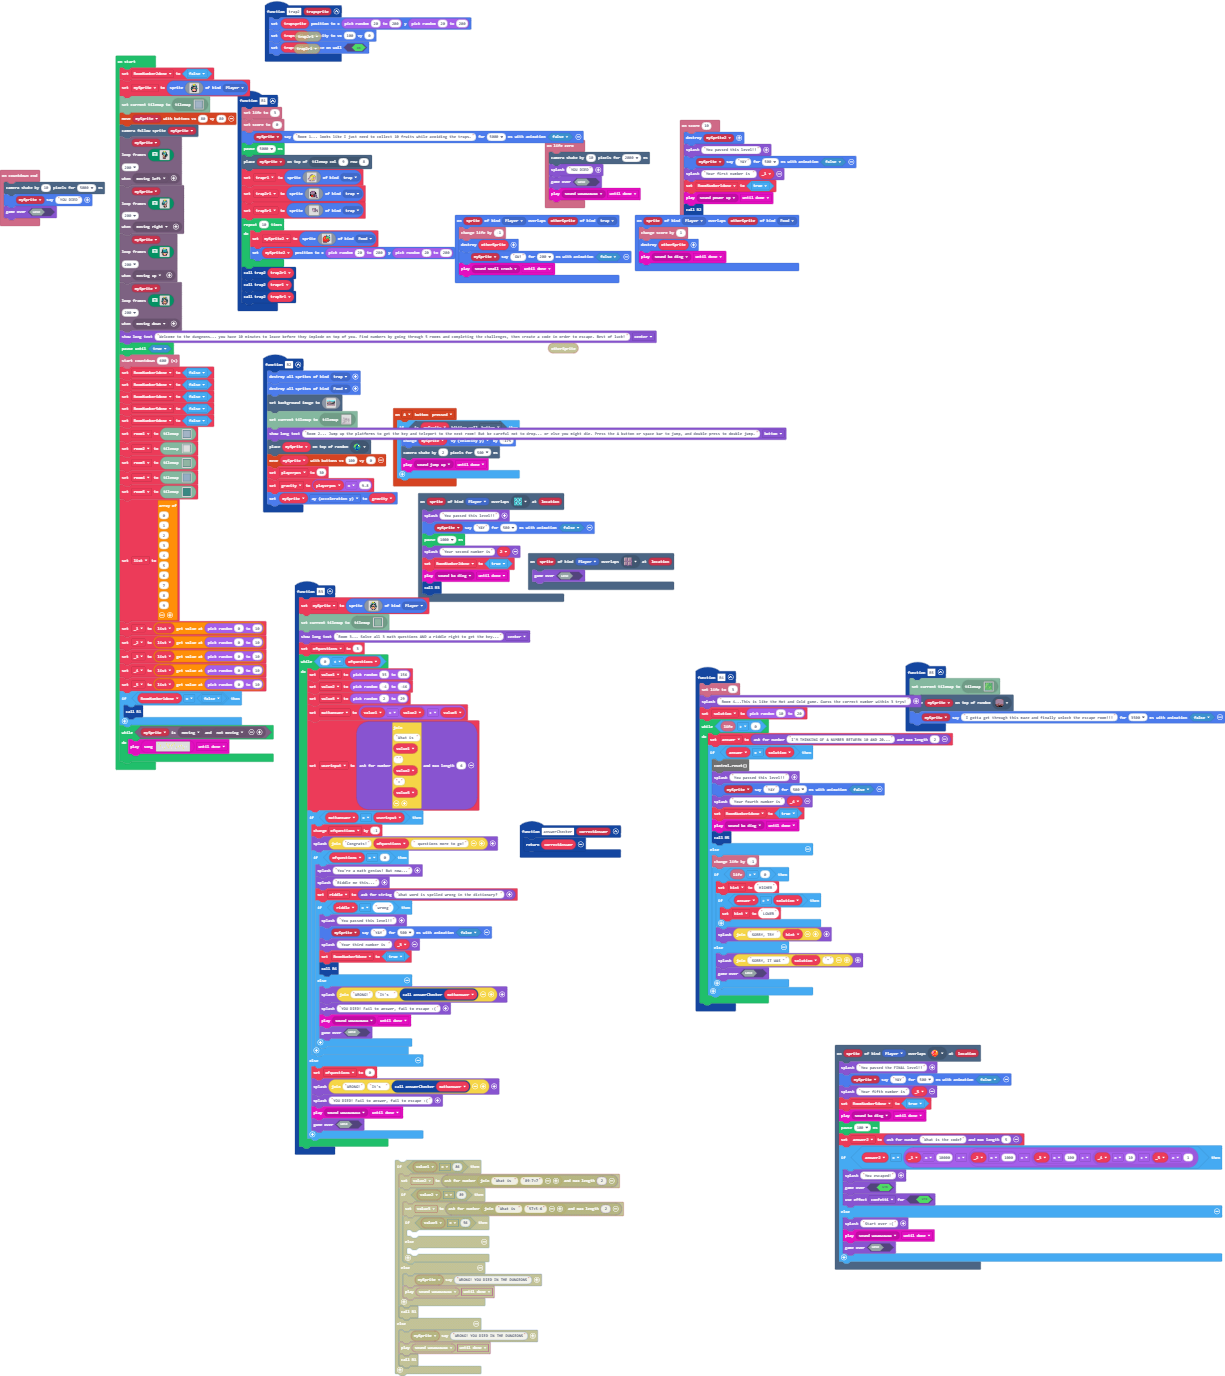
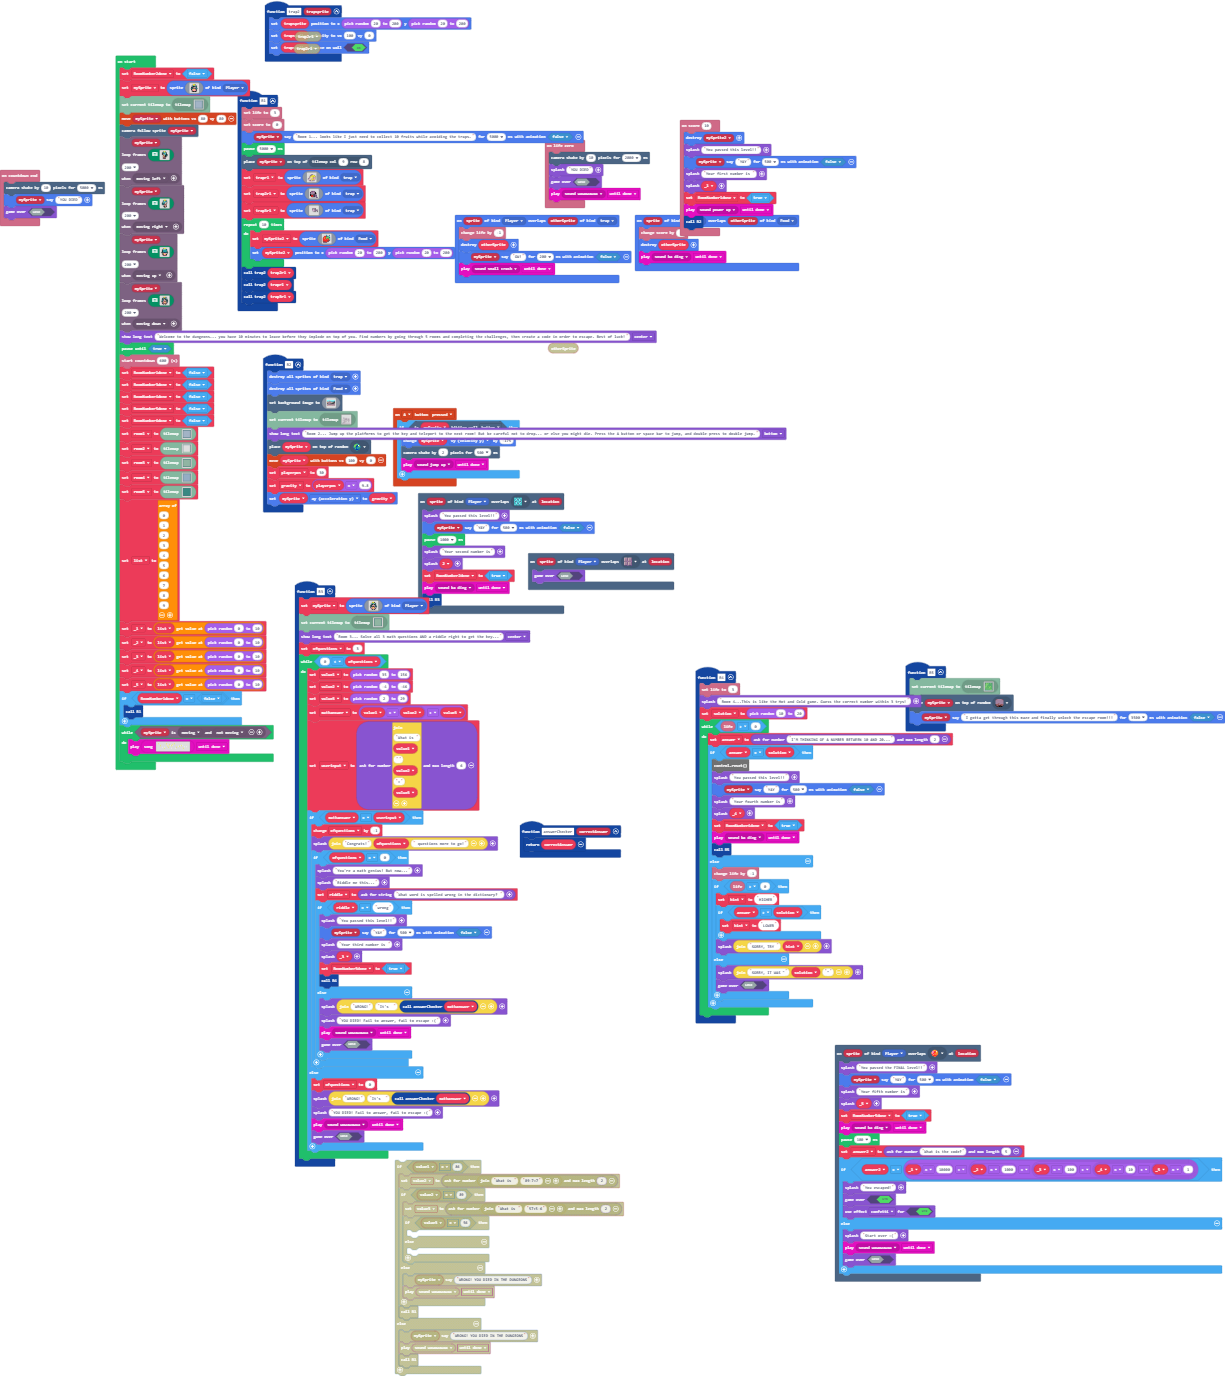
better number splash

diff --git a/main.ts b/main.ts
@@ -130,7 +130,8 @@ info.onScore(10, function () {
     sprites.destroy(mySprite2)
     game.splash("You passed this level!!")
     mySprite.sayText("YAY", 500, false)
-    game.splash("Your first number is ", _1)
+    game.splash("Your first number is ")
+    game.splash(_1)
     RoomNumber1done = true
     music.play(music.melodyPlayable(music.powerUp), music.PlaybackMode.UntilDone)
     R2()
@@ -312,7 +313,8 @@ function R3 () {
                 if (riddle == "wrong") {
                     game.splash("You passed this level!!")
                     mySprite.sayText("YAY", 500, false)
-                    game.splash("Your third number is ", _3)
+                    game.splash("Your third number is ")
+                    game.splash(_3)
                     RoomNumber3done = true
                     R4()
                 } else {
@@ -350,7 +352,8 @@ function R4 () {
             control.reset()
 game.splash("You passed this level!!")
             mySprite.sayText("YAY", 500, false)
-            game.splash("Your fourth number is", _4)
+            game.splash("Your fourth number is")
+            game.splash(_4)
             RoomNumber4done = true
             music.play(music.melodyPlayable(music.baDing), music.PlaybackMode.UntilDone)
             R5()
@@ -377,7 +380,8 @@ sprites.onOverlap(SpriteKind.Player, SpriteKind.Food, function (sprite, otherSpr
 scene.onOverlapTile(SpriteKind.Player, sprites.dungeon.collectibleRedCrystal, function (sprite, location) {
     game.splash("You passed the FINAL level!!")
     mySprite.sayText("YAY", 500, false)
-    game.splash("Your fifth number is", _5)
+    game.splash("Your fifth number is")
+    game.splash(_5)
     RoomNumber5done = true
     music.play(music.melodyPlayable(music.baDing), music.PlaybackMode.UntilDone)
     pause(100)
@@ -402,7 +406,8 @@ scene.onOverlapTile(SpriteKind.Player, sprites.dungeon.collectibleInsignia, func
     game.splash("You passed this level!!")
     mySprite.sayText("YAY", 500, false)
     pause(1000)
-    game.splash("Your second number is", _22)
+    game.splash("Your second number is")
+    game.splash(_22)
     RoomNumber2done = true
     music.play(music.melodyPlayable(music.baDing), music.PlaybackMode.UntilDone)
     R3()
